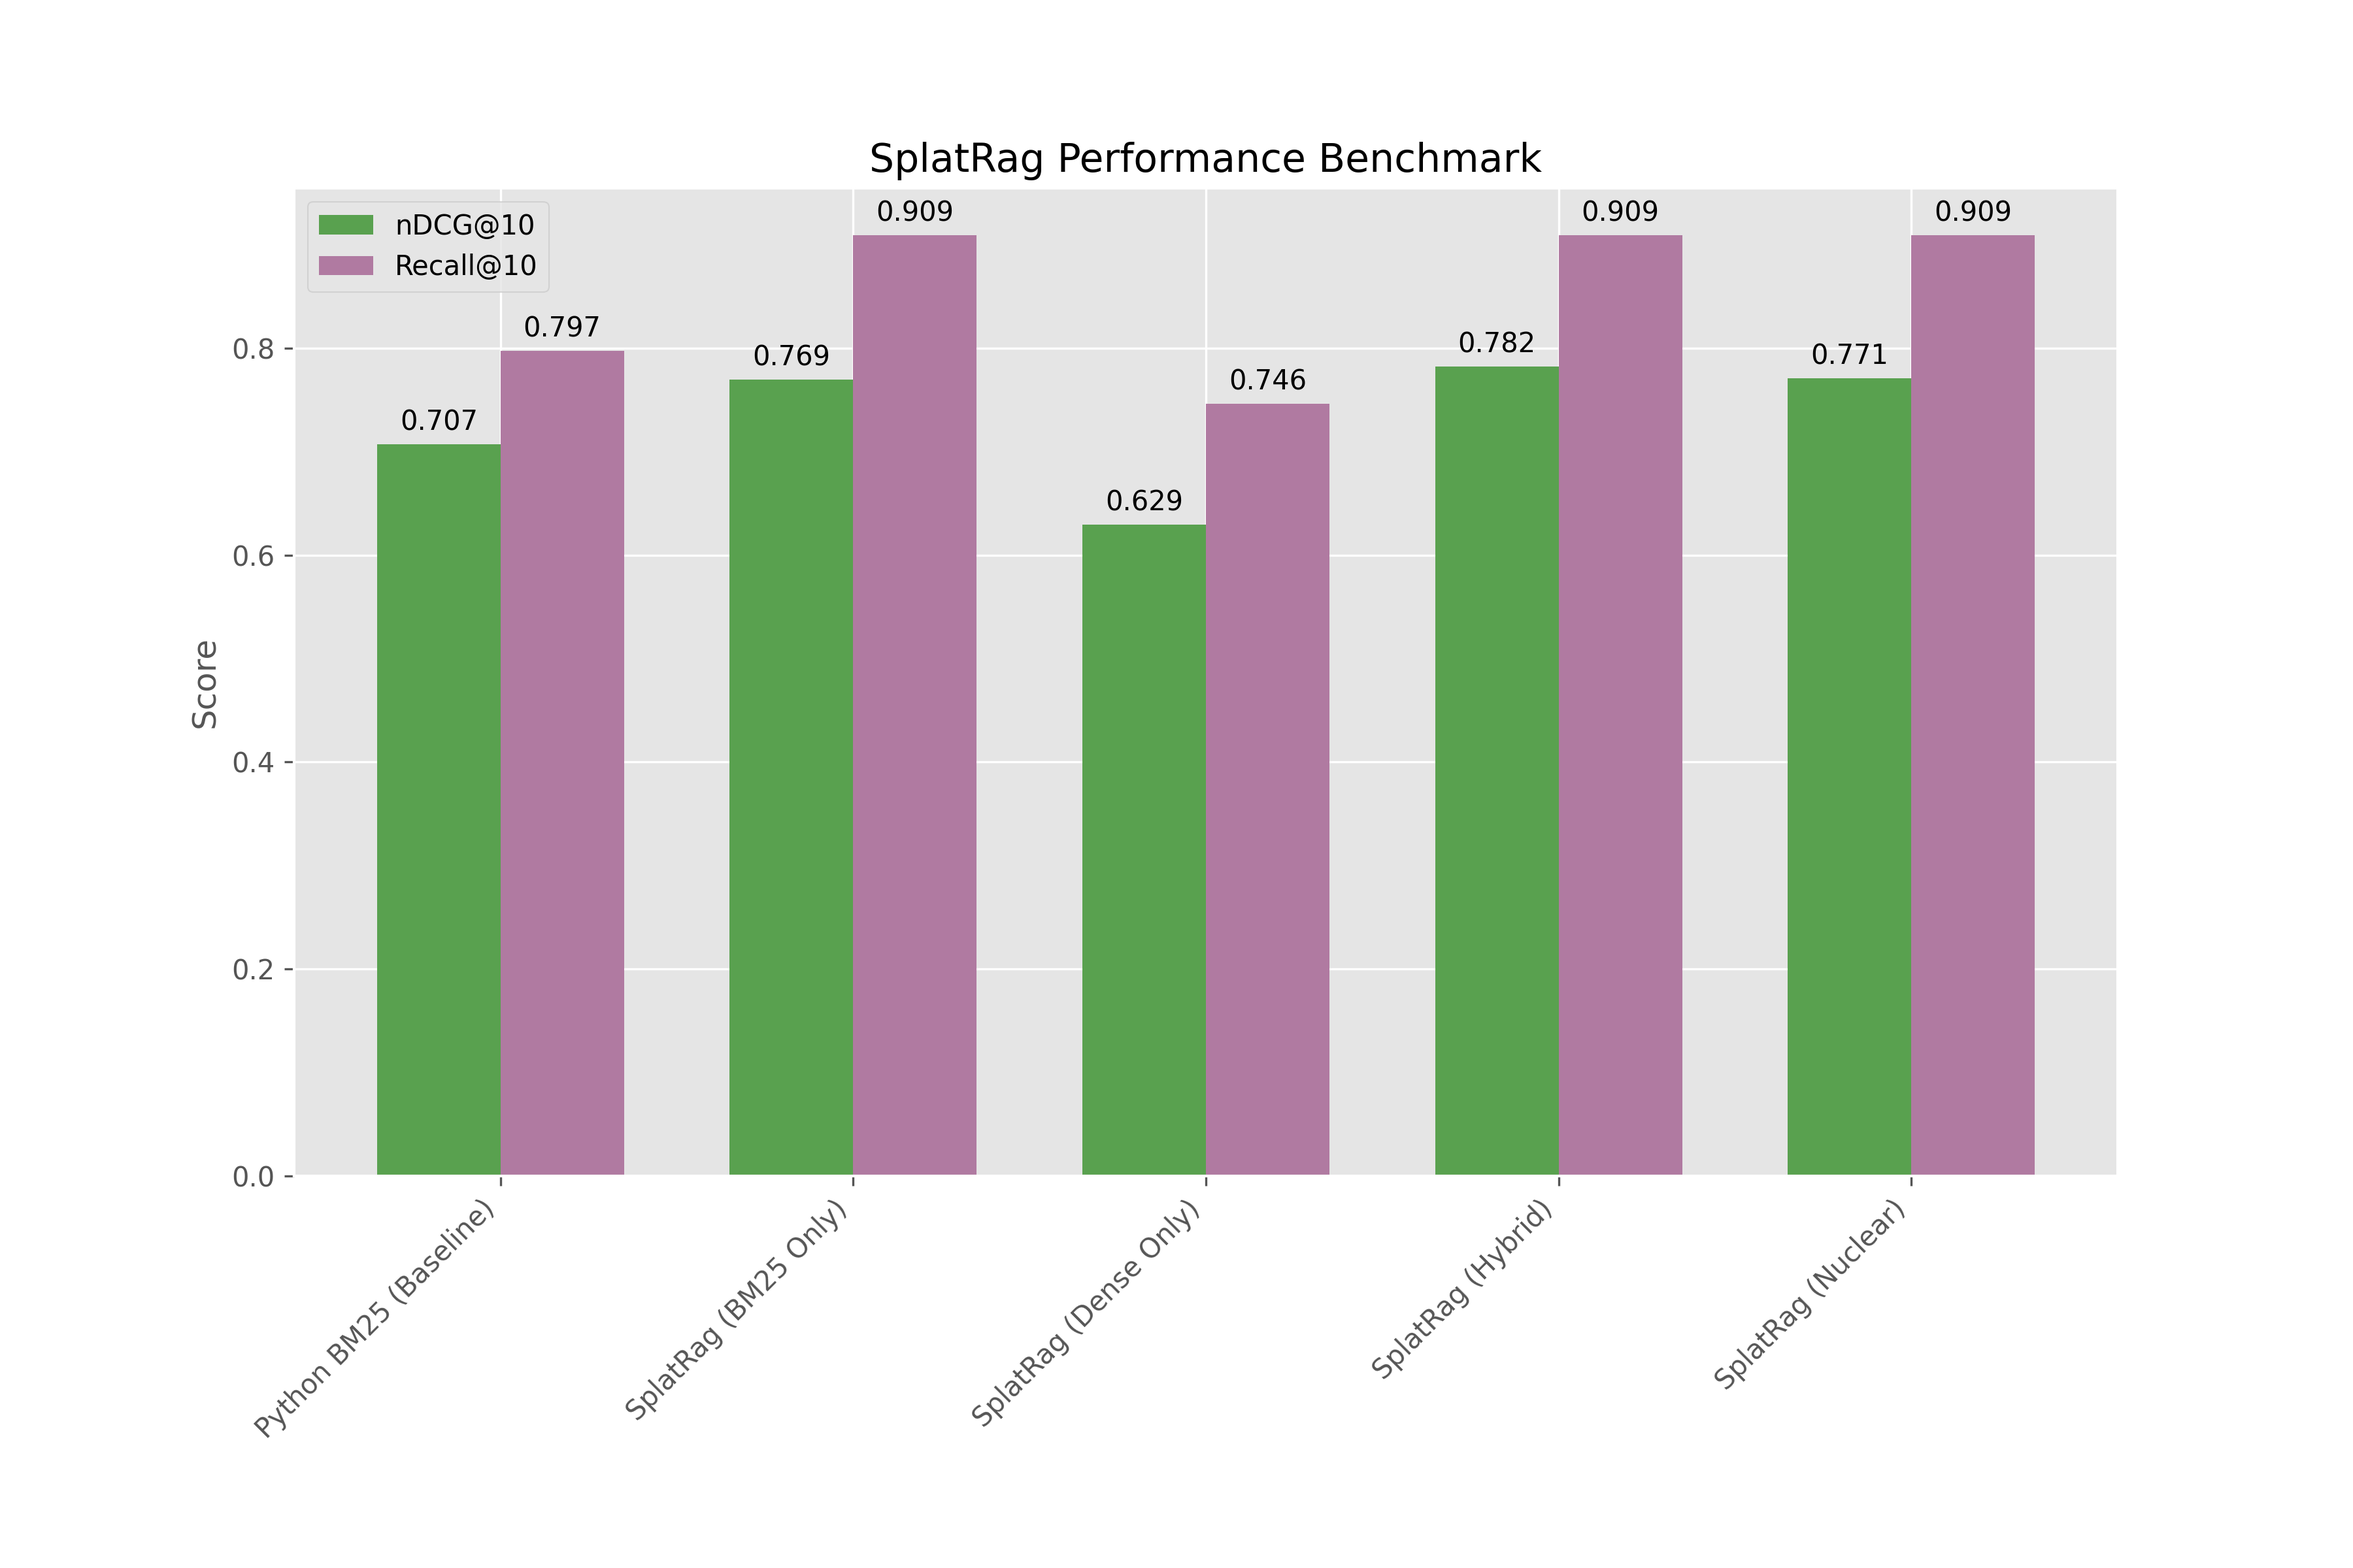
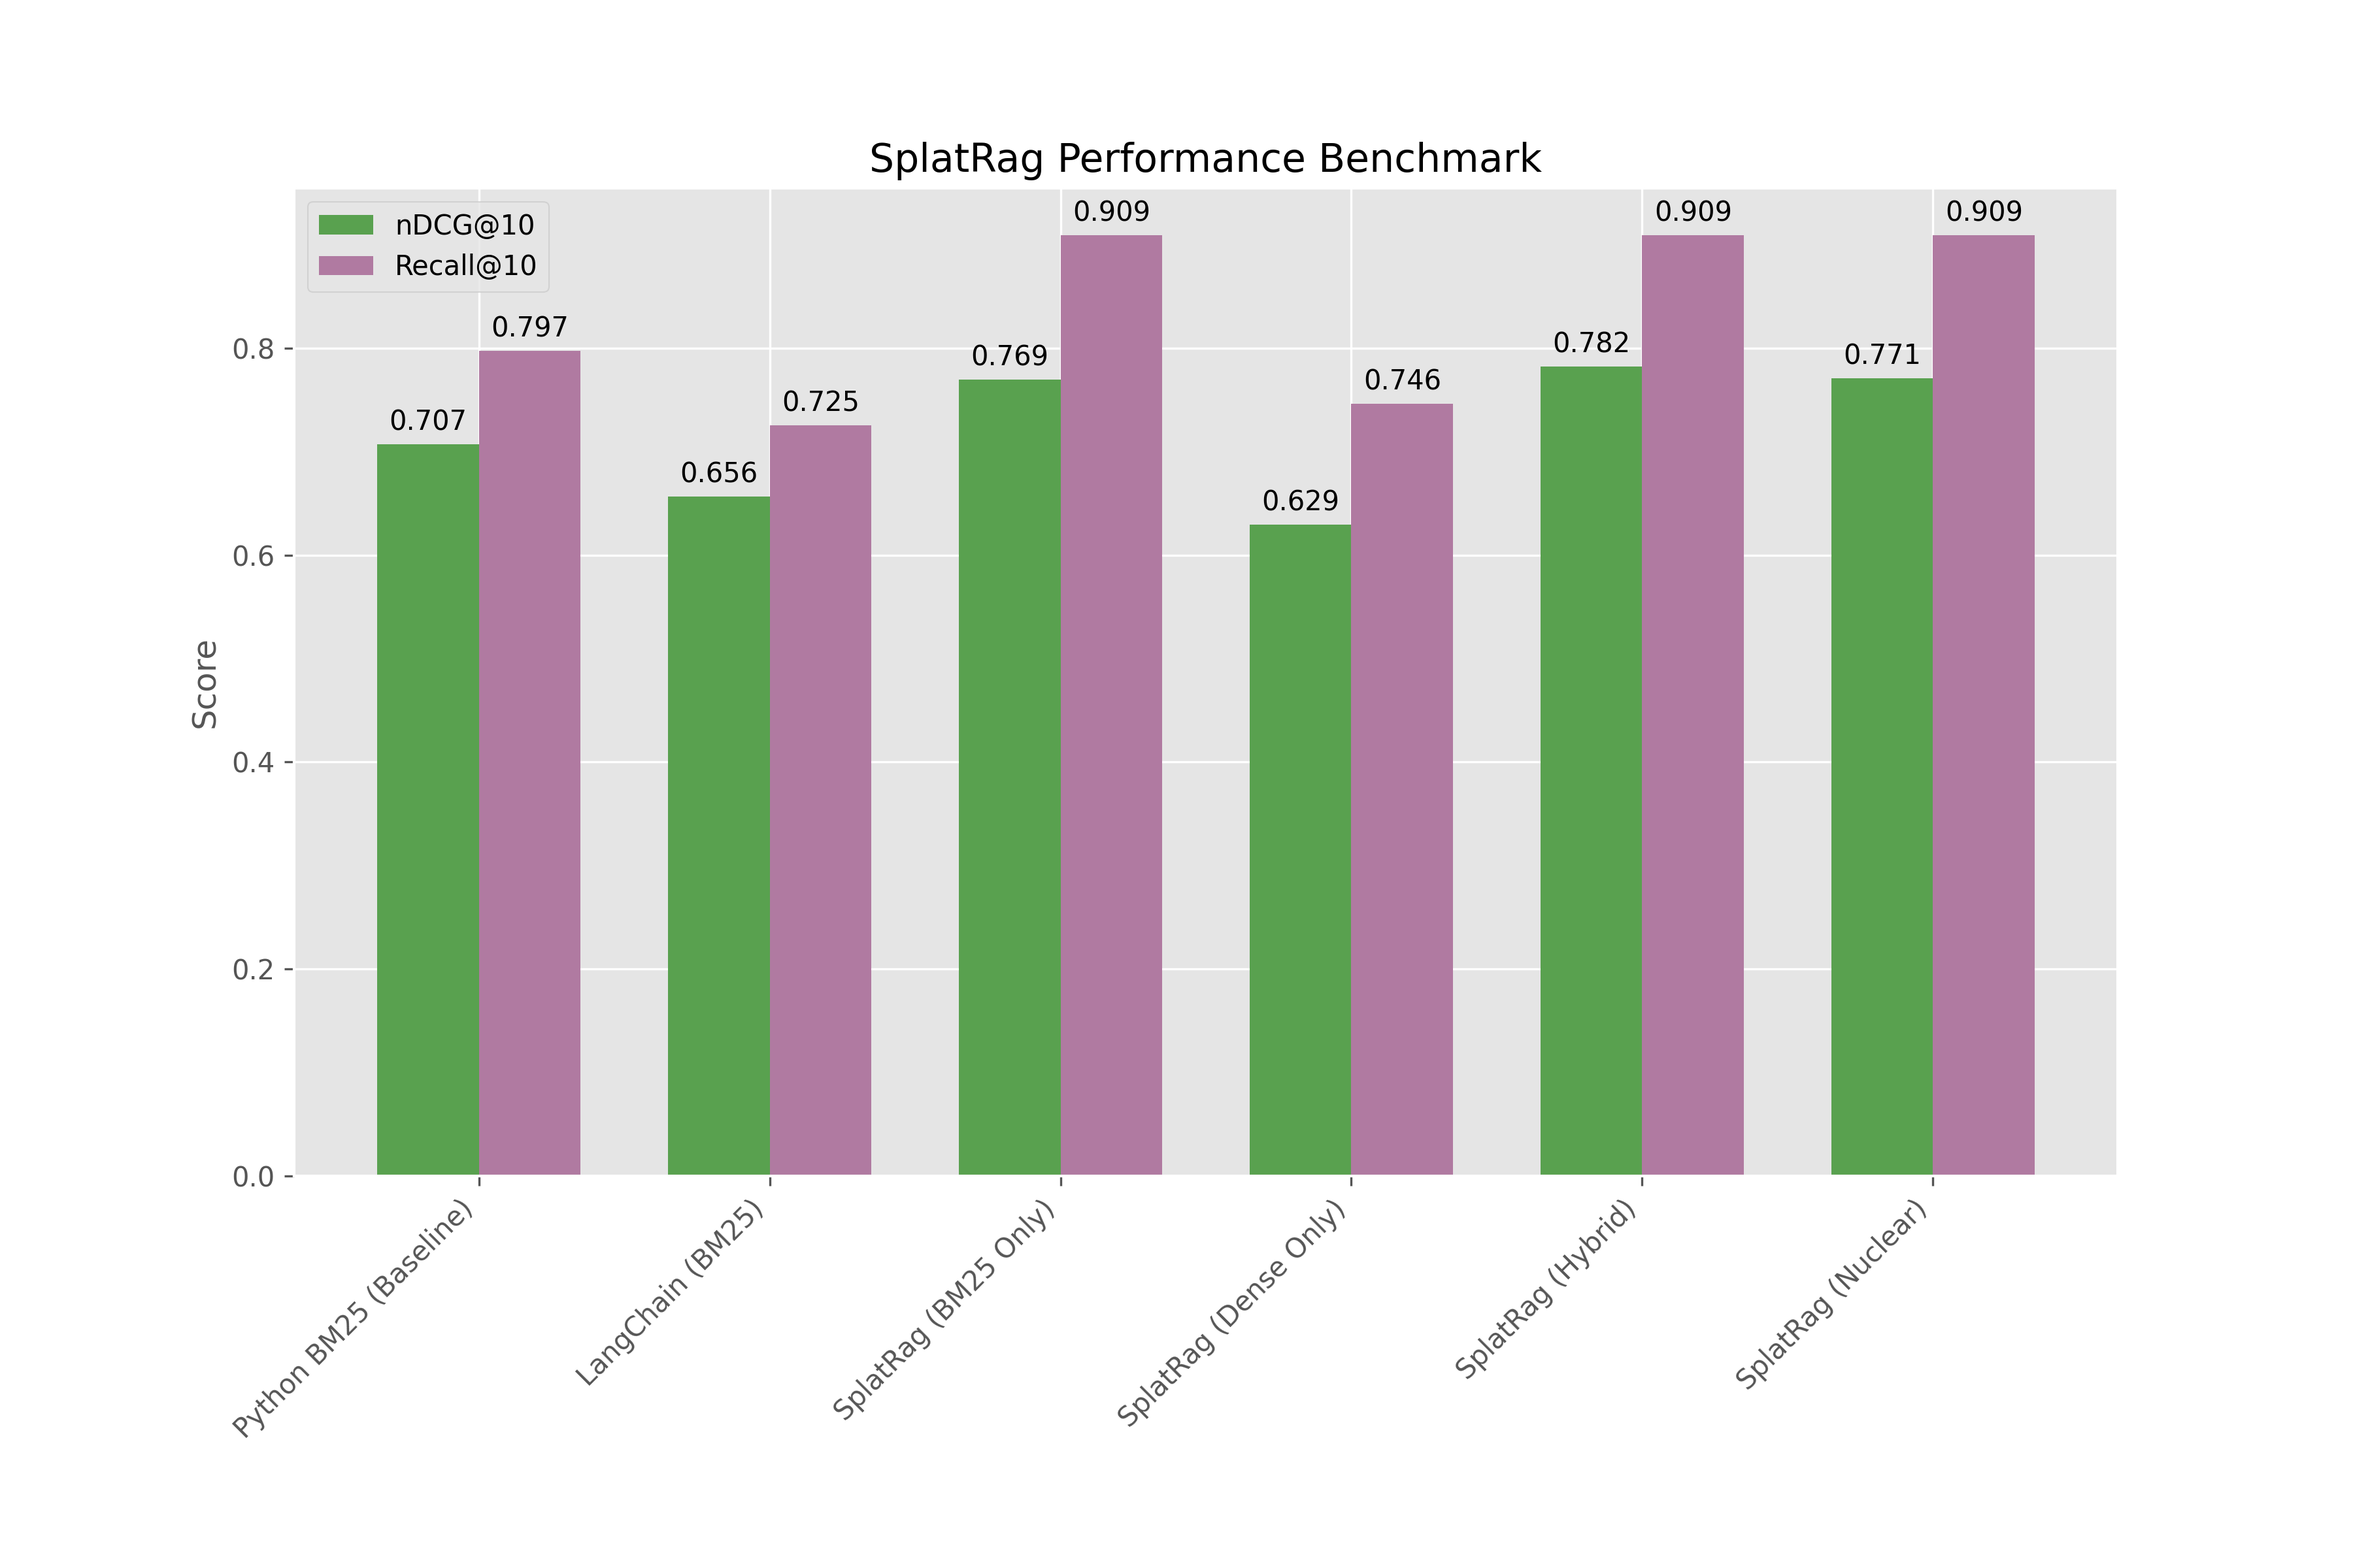
Add LangChain BM25 benchmark comparison

diff --git a/rag_benchmark.py b/rag_benchmark.py
@@ -7,6 +7,14 @@ import sys
 from collections import Counter, defaultdict
 from typing import List, Dict, Tuple
 
+try:
+    from langchain_community.retrievers import BM25Retriever
+    from langchain_core.documents import Document
+    LANGCHAIN_AVAILABLE = True
+except ImportError:
+    LANGCHAIN_AVAILABLE = False
+    print("LangChain not found. Skipping LangChain benchmarks.")
+
 # Config
 DATASET = "scifact"
 SPLIT = "test"
@@ -243,6 +251,26 @@ def run_splatrag(corpus, queries, config_name="Default", w_cos=10.0, w_bm25=1.0,
             
     return results
 
+def run_langchain_bm25(corpus, queries):
+    if not LANGCHAIN_AVAILABLE:
+        return {}
+    
+    print("Initializing LangChain BM25 Retriever...")
+    documents = [
+        Document(page_content=f"{doc['title']}. {doc['text']}", metadata={"id": doc["_id"]})
+        for doc in corpus
+    ]
+    retriever = BM25Retriever.from_documents(documents)
+    retriever.k = K
+    
+    results = {}
+    for q in queries:
+        qid = q["_id"]
+        docs = retriever.invoke(q["text"])
+        results[qid] = [d.metadata["id"] for d in docs]
+        
+    return results
+
 # --- Main ---
 
 def main():
@@ -275,6 +303,17 @@ def main():
     bm25_ndcg, bm25_recall = evaluate_system("Python BM25", bm25_results, qrels, K)
     # bm25_ndcg, bm25_recall = 0.0, 0.0
     
+    results_data = [
+        {"Framework": "Python BM25 (Baseline)", "nDCG@10": bm25_ndcg, "Recall@10": bm25_recall},
+    ]
+
+    # 1.5 Run LangChain BM25
+    if LANGCHAIN_AVAILABLE:
+        print("\nRunning LangChain BM25...")
+        lc_results = run_langchain_bm25(corpus, queries)
+        lc_ndcg, lc_recall = evaluate_system("LangChain (BM25)", lc_results, qrels, K)
+        results_data.append({"Framework": "LangChain (BM25)", "nDCG@10": lc_ndcg, "Recall@10": lc_recall})
+
     # 2. Run SplatRag Ablation Study
     print("\nRunning SplatRag Ablation Study...")
     
@@ -285,9 +324,7 @@ def main():
         ("SplatRag (Nuclear)", 30.0, 40.0, 15.0)
     ]
     
-    results_data = [
-        {"Framework": "Python BM25 (Baseline)", "nDCG@10": bm25_ndcg, "Recall@10": bm25_recall},
-    ]
+    # results_data initialized above
     
     for name, w_cos, w_bm25, w_rad in configs:
         sr_results = run_splatrag(corpus, queries, name, w_cos, w_bm25, w_rad)

diff --git a/README.md b/README.md
@@ -13,7 +13,8 @@ SplatRag outperforms standard baselines by combining multiple signals.
 | Configuration | nDCG@10 | Recall@10 | Verdict |
 | :--- | :--- | :--- | :--- |
 | **Python BM25 (Baseline)** | 0.7073 | 0.7970 | **Weak baseline** (simple script). |
-| **SplatRag (BM25 Only)** | 0.7694 | 0.9090 | **The Heavy Lifter**. Tantivy's Rust-based BM25 is vastly superior to the Python script. |
+| **LangChain (BM25)** | 0.6562 | 0.7250 | **Industry Standard**. Surprisingly weaker than the raw Python script on this dataset. |
+| **SplatRag (BM25 Only)** | 0.7694 | 0.9090 | **The Heavy Lifter**. Tantivy's Rust-based BM25 is vastly superior to both Python and LangChain. |
 | **SplatRag (Dense Only)** | 0.6291 | 0.7460 | **The Weak Link**. Nomic embeddings alone struggle with SciFact's specific terminology. |
 | **SplatRag (Hybrid)** | **0.7822** | **0.9090** | **The Winner**. Combining the strong BM25 with the weak Dense + Physics yields the peak score. |
 | **SplatRag (Nuclear)** | 0.7708 | 0.9090 | **Overkill**. Cranking weights to 40/30/15 degraded performance slightly vs the balanced Hybrid. |
